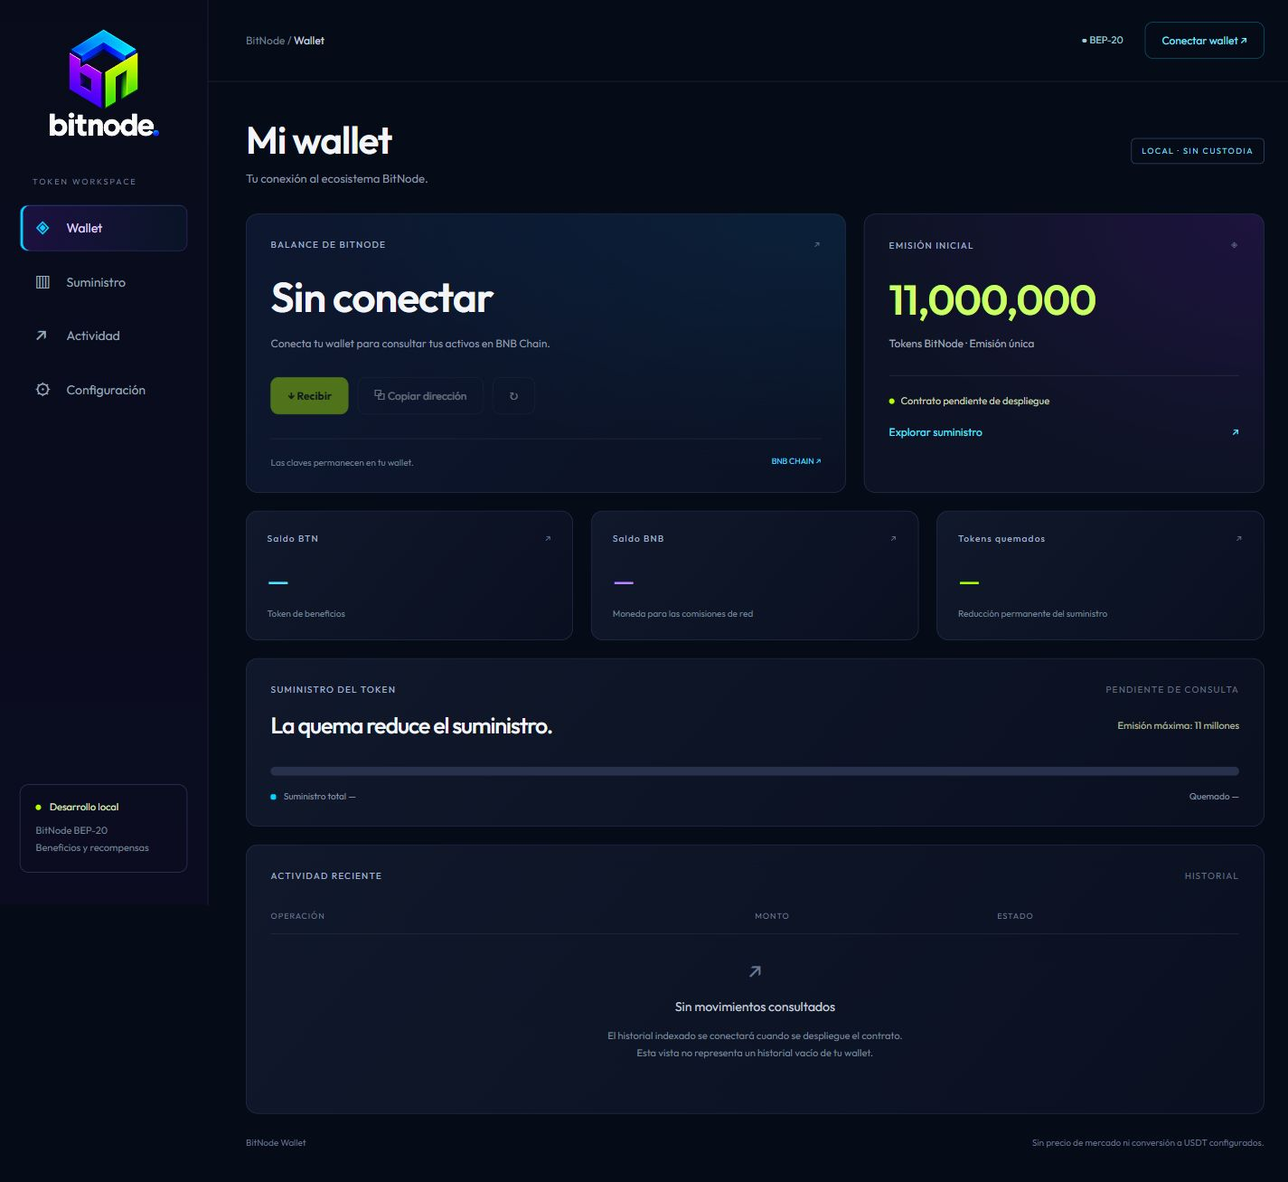
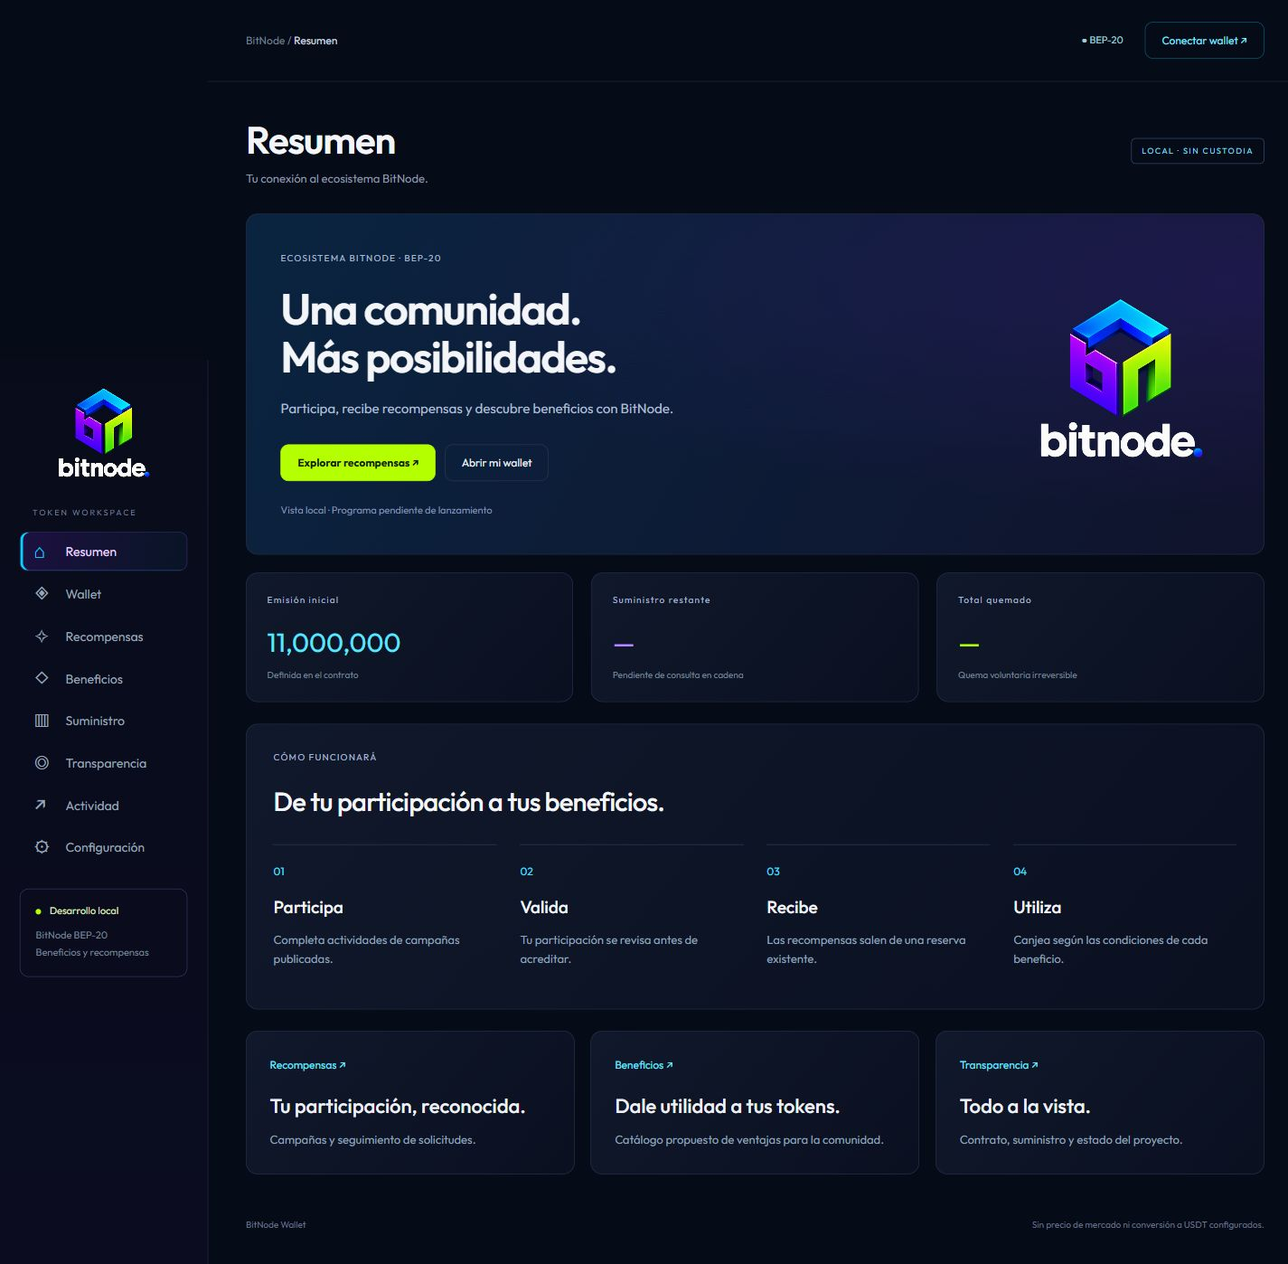
feat: shape local BitNode token center with rewards and benefits demo

diff --git a/wallet-local/src/Hub.jsx b/wallet-local/src/Hub.jsx
@@ -1,0 +1,46 @@
+import React, { useState } from 'react';
+import { displayUnits, NETWORKS } from './wallet.js';
+
+export function Overview({ token, navigate }) {
+  return <><section className="hub-hero panel"><div><span className="section-label">ECOSISTEMA BITNODE · BEP-20</span><h2>Una comunidad.<br/>Más posibilidades.</h2><p>Participa, recibe recompensas y descubre beneficios con BitNode.</p><div className="actions"><button className="primary" onClick={() => navigate('Recompensas')}>Explorar recompensas ↗</button><button onClick={() => navigate('Wallet')}>Abrir mi wallet</button></div><small>Vista local · Programa pendiente de lanzamiento</small></div><img src="/bitnode-logo.png" alt="BitNode"/></section>
+    <div className="metrics">{[['Emisión inicial','11,000,000','Definida en el contrato'],['Suministro restante',token ? displayUnits(token.supply) : '—','Pendiente de consulta en cadena'],['Total quemado',token ? displayUnits(token.burned) : '—','Quema voluntaria irreversible']].map(([label,value,note]) => <section className="panel metric" key={label}><div className="section-label">{label}</div><strong>{value}</strong><p>{token ? note.replace('Pendiente de consulta en cadena','Consultado en cadena') : note}</p></section>)}</div>
+    <section className="journey panel"><div className="section-label">CÓMO FUNCIONARÁ</div><h2>De tu participación a tus beneficios.</h2><div className="journey-grid">{[['01','Participa','Completa actividades de campañas publicadas.'],['02','Valida','Tu participación se revisa antes de acreditar.'],['03','Recibe','Las recompensas salen de una reserva existente.'],['04','Utiliza','Canjea según las condiciones de cada beneficio.']].map(([n,title,text]) => <div key={n}><span>{n}</span><h3>{title}</h3><p>{text}</p></div>)}</div></section>
+    <div className="hub-links">{[['Recompensas','Tu participación, reconocida.','Campañas y seguimiento de solicitudes.'],['Beneficios','Dale utilidad a tus tokens.','Catálogo propuesto de ventajas para la comunidad.'],['Transparencia','Todo a la vista.','Contrato, suministro y estado del proyecto.']].map(([title,heading,text]) => <button className="panel hub-link" key={title} onClick={() => navigate(title)}><span>{title} ↗</span><h3>{heading}</h3><p>{text}</p></button>)}</div>
+  </>;
+}
+const benefits = [
+  { id:'sara', title:'SARA IA', icon:'✧', description:'Propuesta de descuento en la suscripción de tu asistente.', category:'Herramientas' },
+  { id:'materials', title:'Materiales exclusivos', icon:'▧', description:'Propuesta de acceso a recursos y materiales de la comunidad.', category:'Comunidad' },
+  { id:'events', title:'Experiencias BitNode', icon:'◈', description:'Propuesta de beneficios para actividades y eventos.', category:'Experiencias' },
+];
+
+export function DemoProgram({ view }) {
+  const [request, setRequest] = useState(null);
+  const [balance, setBalance] = useState(0);
+  const [redemptions, setRedemptions] = useState([]);
+  const [filter, setFilter] = useState('Todos');
+  const [detail, setDetail] = useState(null);
+  const [notice, setNotice] = useState('');
+  function reset() { setRequest(null); setBalance(0); setRedemptions([]); setNotice('Demostración reiniciada.'); }
+  function approve() { if(request !== 'Pendiente') return; setRequest('Aprobada'); setBalance(b => b + 100); setNotice('Validación simulada: +100 puntos de prueba. No son tokens.'); }
+  function redeem(id) { if(balance < 100 || redemptions.includes(id)) return; setBalance(b => b-100); setRedemptions(r => [...r,id]); setNotice('Canje simulado registrado. No se entregó ningún beneficio ni se quemaron tokens.'); setDetail(null); }
+  return <><div className="demo-banner"><div><strong>DEMO INTERACTIVA</strong><p>Prueba el recorrido con puntos ficticios. No crea tokens, saldos reales ni derechos a premios.</p></div><button onClick={reset}>Reiniciar demo</button></div>
+    {notice && <div className="notice" role="status">{notice}</div>}
+    <div className="program-summary panel"><div><span className="section-label">PUNTOS DE PRUEBA</span><strong>{balance}<small> DEMO</small></strong></div><p>100 puntos por validación simulada.<br/>Valores ilustrativos; reglas comerciales pendientes.</p></div>
+    {view === 'Recompensas' ? <><section className="campaign panel"><div><span className="section-label">CAMPAÑA DE EJEMPLO</span><h2>Conoce el ecosistema BitNode</h2><p>Un ejemplo del flujo que permitirá enviar una participación, revisarla y recibir una recompensa desde la reserva definida.</p><div className="campaign-meta"><span>Revisión requerida</span><span>Sin emisión adicional</span><span>100 puntos DEMO</span></div></div><div className="campaign-action"><span className="state-tag">{request || 'Sin participar'}</span><button className="primary" disabled={!!request} onClick={() => {setRequest('Pendiente');setNotice('Participación de prueba enviada a revisión.');}}>Enviar participación de prueba</button></div></section>
+    <section className="panel info review-demo"><h2>Revisión de demostración</h2><p>Estos controles representan al equipo revisor únicamente en esta demo local. La versión real requerirá autorización administrativa.</p><div className="actions"><button disabled={request !== 'Pendiente'} onClick={approve}>Simular aprobación</button><button disabled={request !== 'Pendiente'} onClick={() => {setRequest('Rechazada');setNotice('Solicitud de prueba rechazada. No se acreditaron puntos.');}}>Simular rechazo</button></div></section>
+    <section className="panel requests"><h2>Mis participaciones</h2>{request ? <div className="request-row"><div><b>Conoce el ecosistema BitNode</b><p>Solicitud de demostración</p></div><span className="state-tag">{request}</span><span>{request === 'Aprobada' ? '+100 DEMO' : 'Sin acreditar'}</span></div> : <p className="muted">Aún no has enviado una participación de prueba.</p>}</section></> : <>
+      <div className="filter-row" aria-label="Filtrar beneficios">{['Todos','Herramientas','Comunidad','Experiencias'].map(f => <button key={f} aria-pressed={filter===f} className={filter===f?'selected':''} onClick={() => setFilter(f)}>{f}</button>)}</div>
+      <div className="benefit-grid">{benefits.filter(b => filter==='Todos'||b.category===filter).map(b => <section className="panel benefit" key={b.id}><span className="benefit-icon">{b.icon}</span><span className="section-label">{b.category} · PROPUESTA</span><h2>{b.title}</h2><p>{b.description}</p><div className="benefit-bottom"><span>{redemptions.includes(b.id) ? 'Canje demo realizado' : '100 puntos DEMO'}</span><button disabled={redemptions.includes(b.id)} onClick={() => setDetail(b.id)}>Ver detalle ↗</button></div>{detail === b.id && <div className="benefit-details"><p>Precio real, disponibilidad y proporción de quema pendientes de definir. Este ejemplo consume puntos ficticios, no tokens BitNode.</p><button className="primary" disabled={balance<100} onClick={() => redeem(b.id)}>Confirmar canje de prueba</button>{balance<100 && <p>Obtén puntos en la demo de Recompensas para probarlo.</p>}<button className="text-button" onClick={() => setDetail(null)}>Cerrar detalle</button></div>}</section>)}</div>
+      <section className="panel info"><h2>Un canje con reglas claras.</h2><p>Antes del lanzamiento se publicará el costo de cada beneficio, sus condiciones y qué cantidad se quema. La quema automática por canje todavía no está configurada.</p></section>
+    </>}
+  </>;
+}
+
+export function Transparency({ token, network, address, navigate }) {
+  const explorer = NETWORKS[network]?.explorer;
+  return <><section className="panel transparency"><div className="section-label">ESTADO DEL PROYECTO</div><h2>Verificable, paso a paso.</h2><p>El código está preparado. El despliegue y la distribución siguen pendientes.</p><div className="status-list">{[['Contrato BEP-20','Código y pruebas locales completados','ready'],['Despliegue en BNB Chain','Pendiente de despliegue','pending'],['Distribución de los 11 millones','Pendiente de definir','pending'],['Campañas y canjes reales','Pendientes de reglas y presupuesto','pending']].map(([title,state,type]) => <div key={title}><b>{title}</b><span className={type}>{state}</span></div>)}</div><p className="muted">Configurar una dirección local no demuestra un despliegue oficial ni una auditoría de seguridad.</p></section>
+    <div className="hub-links"><section className="panel audit-card"><h3>Contrato consultado</h3><p>{address || 'Sin dirección configurada'}</p>{address && explorer ? <a href={`${explorer}/address/${address}`} target="_blank" rel="noreferrer">Consultar en explorador ↗</a> : <button className="text-button" onClick={() => navigate('Configuración')}>Configurar dirección ↗</button>}</section><section className="panel audit-card"><h3>Quema total consultada</h3><strong>{token ? displayUnits(token.burned) : '—'}</strong><p>Emisión inicial menos totalSupply. Historial individual de quemas pendiente de indexar.</p></section><section className="panel audit-card"><h3>Reserva de recompensas</h3><strong>Por definir</strong><p>Las recompensas deberán salir de los tokens existentes. No se crearán emisiones adicionales.</p></section></div>
+    <section className="panel info"><h2>Documentación del contrato</h2><p>Emisión inicial única de 11 millones. Quema voluntaria propia o con autorización. Sin facultad de crear más tokens, cobrar impuestos o confiscar saldos.</p><a href="https://github.com/rafaeldelacruz0072024-crypto/BitNode/tree/main/blockchain/bitnode-token" target="_blank" rel="noreferrer">Ver código del contrato ↗</a></section>
+  </>;
+}

diff --git a/wallet-local/src/style.css b/wallet-local/src/style.css
@@ -14,3 +14,7 @@ aside{background:linear-gradient(180deg,#080c1a,#0b0c20);border-color:#222c47;pa
 h1,.balance h2,.supply-card h2,.supply-heading h3,.info h2,.modal h2{font-family:Outfit,Arial,sans-serif;font-weight:600;letter-spacing:-1px}h1{font-size:42px}.balance h2{font-size:46px;font-weight:600}.supply-card h2{font-size:46px;font-weight:600}.supply-heading h3{font-size:25px;font-weight:500}
 nav .active{background:linear-gradient(100deg,#8028ff2a,#00d5ff0b);border-color:#6e49c66b;color:#e4d5ff;box-shadow:inset 3px 0 #00d5ff}nav .active span{color:#00d5ff}.panel{background:linear-gradient(130deg,#10182b,#0a1020);border-color:#273551}.balance{background:radial-gradient(ellipse at 100% 0,#08466c44,transparent 65%),linear-gradient(130deg,#0d1830,#0b1123)}.supply-card{background:radial-gradient(ellipse at 100% 0,#6e15bb2c,transparent 70%),#0d1324}.supply-card h2{color:#caff66}.connect{border-color:#00d5ff70;color:#7ee9ff}.primary{background:#b4ff00;border-color:#b4ff00;color:#142000}.primary:hover:not(:disabled){background:#ccff53;color:#142000}.status-dot{background:#b4ff00}.text-button{color:#5ee4ff}.supply-bar{background:#27314b}.supply-bar div{background:linear-gradient(90deg,#008cff,#00d5ff 45%,#9aff24)}.legend i{background:#00d5ff}.metric:nth-child(1) strong{color:#5ce5ff}.metric:nth-child(2) strong{color:#bc8bff}.metric:nth-child(3) strong{color:#b4ff00}.network{color:#9fcdd9}.local-label{border-color:#375576;color:#7ed8e8}.aside-bottom{border-color:#393a65}.section-label{color:#a6b7d0}.balance-footer span{color:#4ddcfb}.notice{border-color:#247a9b;background:#00d5ff09;color:#b4e6f2}button:hover:not(:disabled){border-color:#00d5ff;background:#00d5ff09}button:focus-visible,a:focus-visible,input:focus-visible{outline-color:#00d5ff}
 @media(max-width:1100px){.balance h2,.supply-card h2{font-size:35px}}@media(max-width:760px){aside{padding:16px 20px}.brand{justify-content:flex-start}.brand img{width:80px;height:84px}.workspace{display:none}nav{margin-top:14px}h1{font-size:35px}.balance h2{font-size:38px}.supply-card h2{font-size:39px}}
+/* Token center */
+aside{overflow-y:auto}.aside-bottom{margin-top:24px}nav button{padding:12px 15px}nav{gap:4px}.workspace{margin:20px 14px 16px}.brand img{width:112px;height:118px}.hub-hero{display:flex;align-items:center;justify-content:space-between;padding:42px 38px;background:radial-gradient(ellipse at 100% 20%,#5925bb33,transparent 60%),linear-gradient(120deg,#0a2440,#10132c)}.hub-hero>div{max-width:610px}.hub-hero h2{font-size:48px;letter-spacing:-1.5px;line-height:1.1;margin:24px 0 18px;font-weight:600}.hub-hero p{color:#adbed2;font-size:15px;line-height:1.7}.hub-hero img{width:200px;height:225px;object-fit:contain;margin:0 20px}.hub-hero small{display:block;color:#8193b0;margin-top:25px;font-size:11px}.journey{padding:30px;margin:24px 0}.journey h2,.transparency h2{font-size:29px;letter-spacing:-.7px;font-weight:500}.journey-grid{display:grid;grid-template-columns:repeat(4,1fr);gap:26px;margin-top:30px}.journey-grid>div{border-top:1px solid #2e4265;padding-top:18px}.journey-grid>div>span{font-size:12px;color:#49dfff}.journey-grid h3{font-size:19px;font-weight:500;margin-bottom:8px}.journey-grid p,.hub-link p{color:#91a3bc;font-size:13px;line-height:1.7}.hub-links{display:grid;grid-template-columns:repeat(3,1fr);gap:18px;margin:24px 0}.hub-link{display:block;text-align:left;padding:26px}.hub-link>span{color:#6ee6ff;font-size:12px}.hub-link h3{font-size:22px;line-height:1.3;font-weight:500;margin:22px 0 10px}.hub-link p{margin-bottom:0}.demo-banner{border:1px solid #7355ad;background:#271b492e;border-radius:12px;padding:22px;display:flex;align-items:center;justify-content:space-between;gap:20px;margin-bottom:20px}.demo-banner strong{font-size:11px;letter-spacing:1.5px;color:#c8a5ff}.demo-banner p{font-size:13px;color:#abb6ce;line-height:1.7;margin:8px 0 0}.demo-banner button{font-size:12px;white-space:nowrap}.program-summary{padding:26px 30px;display:flex;align-items:center;justify-content:space-between;gap:20px;margin-bottom:24px}.program-summary strong{display:block;font-size:40px;margin-top:12px;color:#63e5ff}.program-summary small{font-size:12px;color:#8398b7}.program-summary p{font-size:12px;line-height:1.8;color:#90a4bf}.campaign{display:flex;padding:30px;gap:30px;align-items:center}.campaign>div:first-child{flex:1}.campaign h2,.benefit h2{font-weight:500;font-size:27px;line-height:1.2}.campaign p,.benefit p{color:#99abc4;font-size:14px;line-height:1.8}.campaign-meta{display:flex;gap:8px;flex-wrap:wrap;margin-top:24px}.campaign-meta span,.state-tag{display:inline-block;border:1px solid #334866;padding:7px 10px;border-radius:6px;font-size:10px;color:#9ec7e1}.campaign-action{display:grid;gap:20px;justify-items:end}.campaign-action button{font-size:12px}.review-demo{margin:22px 0;max-width:none}.review-demo h2{font-size:23px}.review-demo p{font-size:13px}.requests{padding:28px}.requests h2{font-size:23px;font-weight:500}.request-row{display:flex;align-items:center;justify-content:space-between;gap:18px;padding-top:20px;border-top:1px solid #26334c;font-size:12px}.request-row p{color:#8597b1}.muted{color:#8395af;font-size:13px;line-height:1.8}.filter-row{display:flex;gap:8px;margin:22px 0;flex-wrap:wrap}.filter-row button{font-size:12px}.filter-row .selected{border-color:#00d5ff;color:#6fe6ff;background:#00d5ff12}.benefit-grid{display:grid;grid-template-columns:repeat(3,1fr);gap:20px;margin-bottom:24px;align-items:start}.benefit{padding:26px}.benefit-icon{display:grid;place-items:center;width:50px;height:50px;border:1px solid #564481;border-radius:13px;background:#7223ef22;color:#b393ff;font-size:27px;margin-bottom:25px}.benefit:nth-child(2) .benefit-icon{color:#51e2ff;background:#00d5ff12;border-color:#285a71}.benefit:nth-child(3) .benefit-icon{color:#c1ff50;background:#b4ff0012;border-color:#506d31}.benefit-bottom{border-top:1px solid #2c3850;margin-top:25px;padding-top:20px;display:grid;gap:16px}.benefit-bottom>span{color:#aed468;font-size:12px}.benefit-bottom button{font-size:12px}.benefit-details{border-top:1px solid #3a4a68;margin-top:20px;padding-top:10px}.benefit-details p{font-size:12px}.benefit-details .primary{font-size:12px;width:100%}.transparency{padding:32px}.transparency>p{color:#95a7bf;line-height:1.8;font-size:14px}.status-list{margin:30px 0}.status-list>div{display:flex;justify-content:space-between;align-items:center;gap:20px;padding:19px 0;border-bottom:1px solid #27344b;font-size:13px}.status-list b{font-weight:500}.ready{color:#baff5a}.pending{color:#9bacc5}.audit-card{padding:26px}.audit-card h3{font-size:20px;font-weight:500}.audit-card p{font-size:12px;line-height:1.8;color:#8da1bd;overflow-wrap:anywhere}.audit-card strong{font-size:25px;color:#7ee5ff;font-weight:500}.audit-card a,.info>a{color:#5ce2ff;font-size:13px;line-height:1.7}.audit-card .text-button{font-size:12px}
+@media(max-width:1100px){.hub-hero h2{font-size:38px}.hub-hero img{width:145px;height:175px;margin:0}.benefit-grid{grid-template-columns:1fr}.hub-links{grid-template-columns:1fr}.hub-link h3{margin-top:12px}.journey-grid{grid-template-columns:1fr 1fr}.campaign{display:block}.campaign-action{margin-top:25px;justify-items:start}}
+@media(max-width:760px){.brand img{width:70px;height:74px}nav button{padding:10px 12px}.hub-hero{padding:26px;display:block;position:relative}.hub-hero img{width:100px;height:115px;display:block;margin:26px 0 0 auto}.hub-hero h2{font-size:36px}.hub-hero .section-label{font-size:9px}.hub-hero .actions button{font-size:12px}.journey{padding:24px}.journey h2{font-size:25px;line-height:1.3}.journey-grid{gap:15px}.journey-grid p{font-size:12px}.demo-banner{display:block}.demo-banner button{margin-top:14px}.program-summary{padding:24px;display:block}.program-summary p{margin-bottom:0}.campaign,.transparency{padding:24px}.request-row,.status-list>div{flex-wrap:wrap}.status-list>div{gap:9px}.status-list>div>span{font-size:12px}.hub-links{gap:12px}}

diff --git a/wallet-local/src/main.jsx b/wallet-local/src/main.jsx
@@ -4,9 +4,10 @@ import { BrowserProvider, Contract } from 'ethers';
 import QRCode from 'qrcode';
 import { ABI, INITIAL_SUPPLY, NETWORKS, displayUnits, tokenMetrics, validateAddress } from './wallet.js';
 import './style.css';
+import { Overview, DemoProgram, Transparency } from './Hub.jsx';
 
 function App() {
-  const [tab, setTab] = useState('Wallet');
+  const [tab, setTab] = useState('Resumen');
   const [account, setAccount] = useState('');
   const [network, setNetwork] = useState(null);
   const [native, setNative] = useState(null);
@@ -82,13 +83,16 @@ function App() {
   }
   const unit = token?.symbol || 'BTN';
   return <div className="shell">
-    <aside><a className="brand" href="#" onClick={e => { e.preventDefault(); setTab('Wallet'); }}><img src="/bitnode-logo.png" alt="BitNode"/></a><div className="workspace">TOKEN WORKSPACE</div>
-      <nav>{[['Wallet','◈'],['Suministro','▥'],['Actividad','↗'],['Configuración','⚙']].map(([label,icon]) => <button key={label} className={tab === label ? 'active' : ''} onClick={() => setTab(label)}><span>{icon}</span>{label}</button>)}</nav>
+    <aside><a className="brand" href="#" onClick={e => { e.preventDefault(); setTab('Resumen'); }}><img src="/bitnode-logo.png" alt="BitNode"/></a><div className="workspace">TOKEN WORKSPACE</div>
+      <nav>{[['Resumen','⌂'],['Wallet','◈'],['Recompensas','✧'],['Beneficios','◇'],['Suministro','▥'],['Transparencia','◎'],['Actividad','↗'],['Configuración','⚙']].map(([label,icon]) => <button key={label} className={tab === label ? 'active' : ''} onClick={() => setTab(label)}><span>{icon}</span>{label}</button>)}</nav>
       <div className="aside-bottom"><span className="status-dot"/> Desarrollo local<p>BitNode BEP-20<br/>Beneficios y recompensas</p></div>
     </aside>
     <main><header><span>BitNode / <b>{tab}</b></span><div><span className="network">● {NETWORKS[network]?.name || 'BEP-20'}</span><button className="connect" disabled={busy} onClick={() => account ? (clear(), setMessage('Wallet desconectada de esta interfaz.')) : load(true)}>{busy ? 'Consultando…' : account ? `${account.slice(0,6)}…${account.slice(-4)} · Salir` : 'Conectar wallet'} ↗</button></div></header>
       <div className="page"><div className="page-title"><div><h1>{tab === 'Wallet' ? 'Mi wallet' : tab}</h1><p>Tu conexión al ecosistema BitNode.</p></div><span className="local-label">LOCAL · SIN CUSTODIA</span></div>
         {message && <div className="notice" role="status">{message}</div>}
+        {tab === 'Resumen' && <Overview token={token} navigate={setTab}/>} 
+        <div hidden={!['Recompensas','Beneficios'].includes(tab)}><DemoProgram view={tab}/></div> 
+        {tab === 'Transparencia' && <Transparency token={token} network={network} address={contractAddress} navigate={setTab}/>} 
         {tab === 'Wallet' && <>
           <div className="top-grid"><section className="balance panel"><div className="section-label">BALANCE DE BITNODE <span>↗</span></div><h2>{token ? displayUnits(token.owned) : account ? 'Por consultar' : 'Sin conectar'}{token && <small> {unit}</small>}</h2><p>{account ? account : 'Conecta tu wallet para consultar tus activos en BNB Chain.'}</p><div className="actions"><button className="primary" disabled={!account || !NETWORKS[network]} onClick={receive}>↓ Recibir</button><button disabled={!account} onClick={copy}>⧉ Copiar dirección</button><button aria-label="Actualizar saldos" disabled={!account || busy} onClick={() => load()}>↻</button></div><div className="balance-footer">{updated ? `Última consulta ${updated}` : 'Las claves permanecen en tu wallet.'}<span>BNB CHAIN ↗</span></div></section>
           <section className="supply-card panel"><div className="section-label">EMISIÓN INICIAL <span>◈</span></div><h2>11,000,000</h2><p>Tokens BitNode · Emisión única</p><div className="supply-divider"/><div className="pending"><span className="status-dot"/>{contractAddress ? 'Contrato configurado localmente' : 'Contrato pendiente de despliegue'}</div><button className="text-button" onClick={() => setTab('Suministro')}>Explorar suministro <span>↗</span></button></section></div>
@@ -107,6 +111,8 @@ function App() {
 function Supply({token}) { return <section className="panel supply-detail"><div className="section-label">SUMINISTRO DEL TOKEN <span>{token ? 'CONSULTADO EN CADENA' : 'PENDIENTE DE CONSULTA'}</span></div><div className="supply-heading"><h3>La quema reduce el suministro.</h3><span>{token ? token.percent + '% quemado' : 'Emisión máxima: 11 millones'}</span></div><div className="supply-bar"><div style={{width:token ? `${100-token.percent}%` : '0%'}}/></div><div className="legend"><span><i/> Suministro total {token ? displayUnits(token.supply) : '—'}</span><span>Quemado {token ? displayUnits(token.burned) : '—'}</span></div></section>; }
 function Activity() { return <section className="panel activity"><div className="section-label">ACTIVIDAD RECIENTE <span>HISTORIAL</span></div><div className="table-head"><span>OPERACIÓN</span><span>MONTO</span><span>ESTADO</span></div><div className="empty"><span>↗</span><h3>Sin movimientos consultados</h3><p>El historial indexado se conectará cuando se despliegue el contrato.<br/>Esta vista no representa un historial vacío de tu wallet.</p></div></section>; }
 createRoot(document.getElementById('root')).render(<App/>);
+
+
 
 
 

diff --git a/wallet-local/README.md b/wallet-local/README.md
@@ -22,3 +22,9 @@ El contrato no está desplegado. No hay precio, canje, compras, envíos, firma d
 La app no convierte ni modifica balances USDT de BitNode. La futura integración requiere fijar chain ID y contrato oficiales en configuración revisada, reutilizar estos componentes y conectar un indexador con paginación/reorganizaciones y reconciliación. La wallet externa sigue siendo quien firma, con confirmación expresa del usuario.
 
 Validación actual: build, pruebas unitarias y navegación/validación visual local. Sin prueba con wallet real ni transacciones on-chain.
+
+## Centro del token (prototipo local)
+
+Resumen, recompensas, catálogo de beneficios con filtros y transparencia. La demo permite enviar una participación, simular aprobación/rechazo y consumir 100 puntos ficticios en un canje. Los puntos no son BTN ni USDT; no crean derechos a beneficios. No persisten al recargar y no se transfieren a una wallet. La aprobación doble y el canje repetido se bloquean dentro de esta sesión de demostración.
+
+Las propuestas de descuento SARA IA, materiales y experiencias no son ofertas publicadas. Faltan importes, distribución, presupuesto y reglas de quema. El historial y las operaciones reales siguen sin habilitarse.
